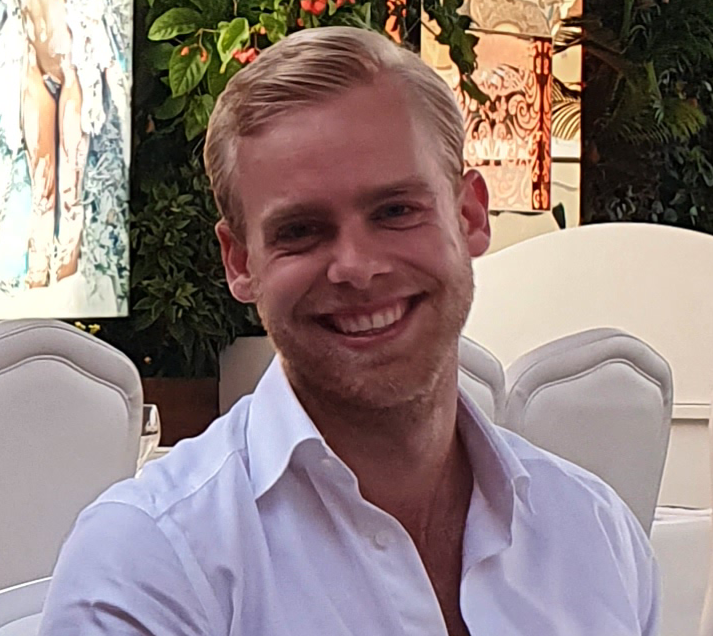
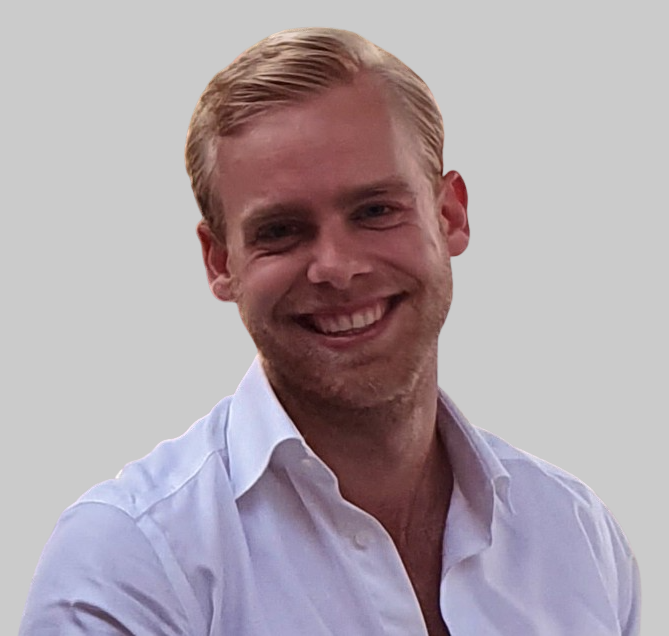
changed profilepic and cv

diff --git a/public/index.html b/public/index.html
@@ -5,10 +5,7 @@
     <link rel="icon" href="%PUBLIC_URL%/favicon.ico" />
     <meta name="viewport" content="width=device-width, initial-scale=1" />
     <meta name="theme-color" content="#000000" />
-    <meta
-      name="description"
-      content="Web site created using create-react-app"
-    />
+    <meta name="description" content="Tobias Maas Portfolio" />
     <link rel="apple-touch-icon" href="%PUBLIC_URL%/logo192.png" />
     <link rel="manifest" href="%PUBLIC_URL%/manifest.json" />
 
